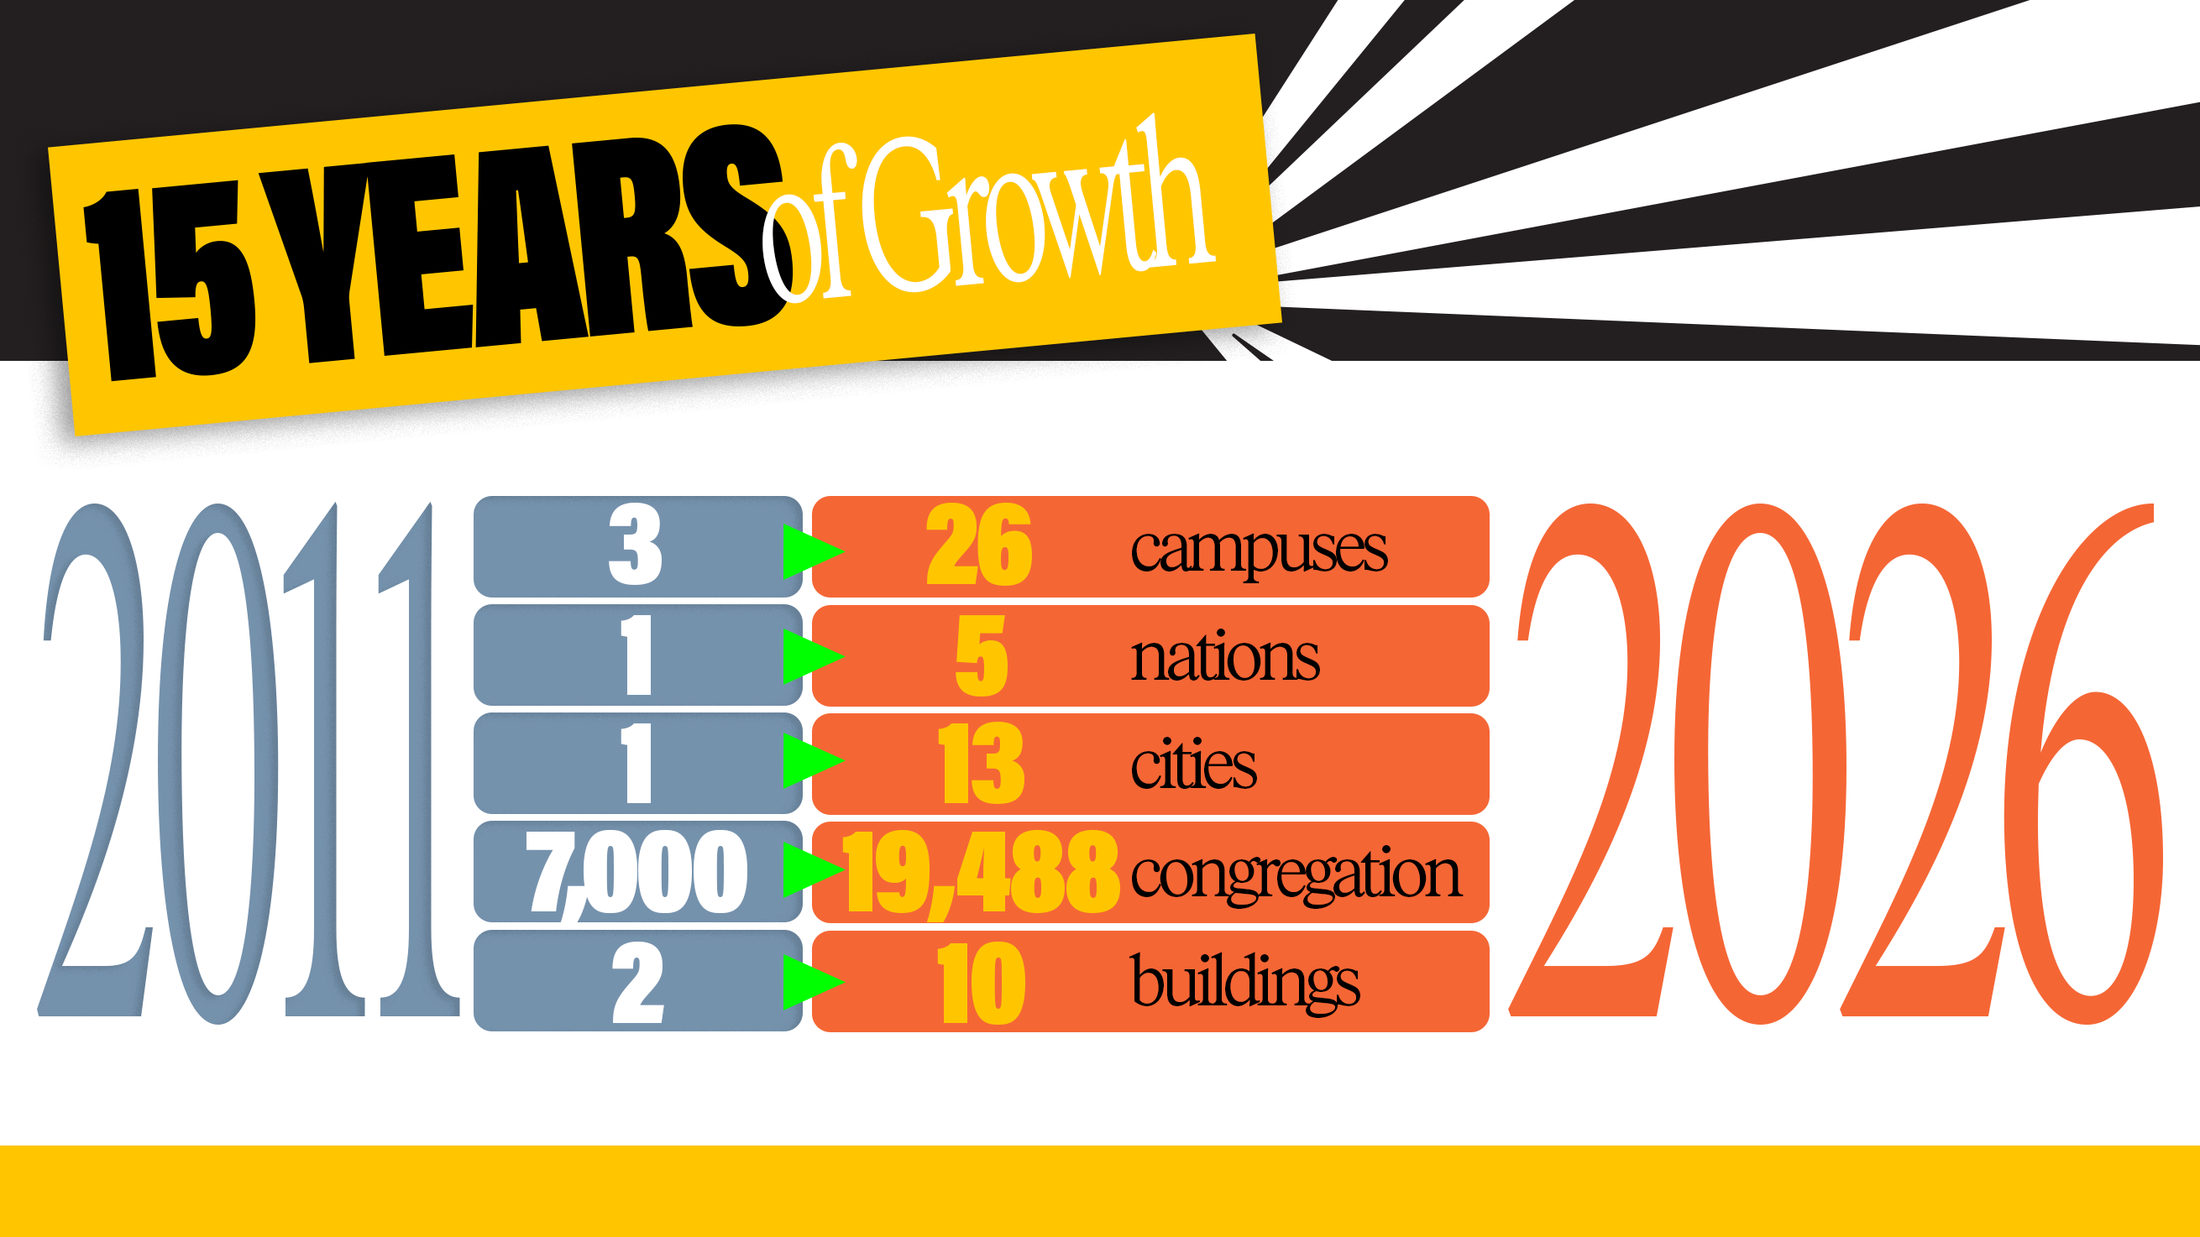
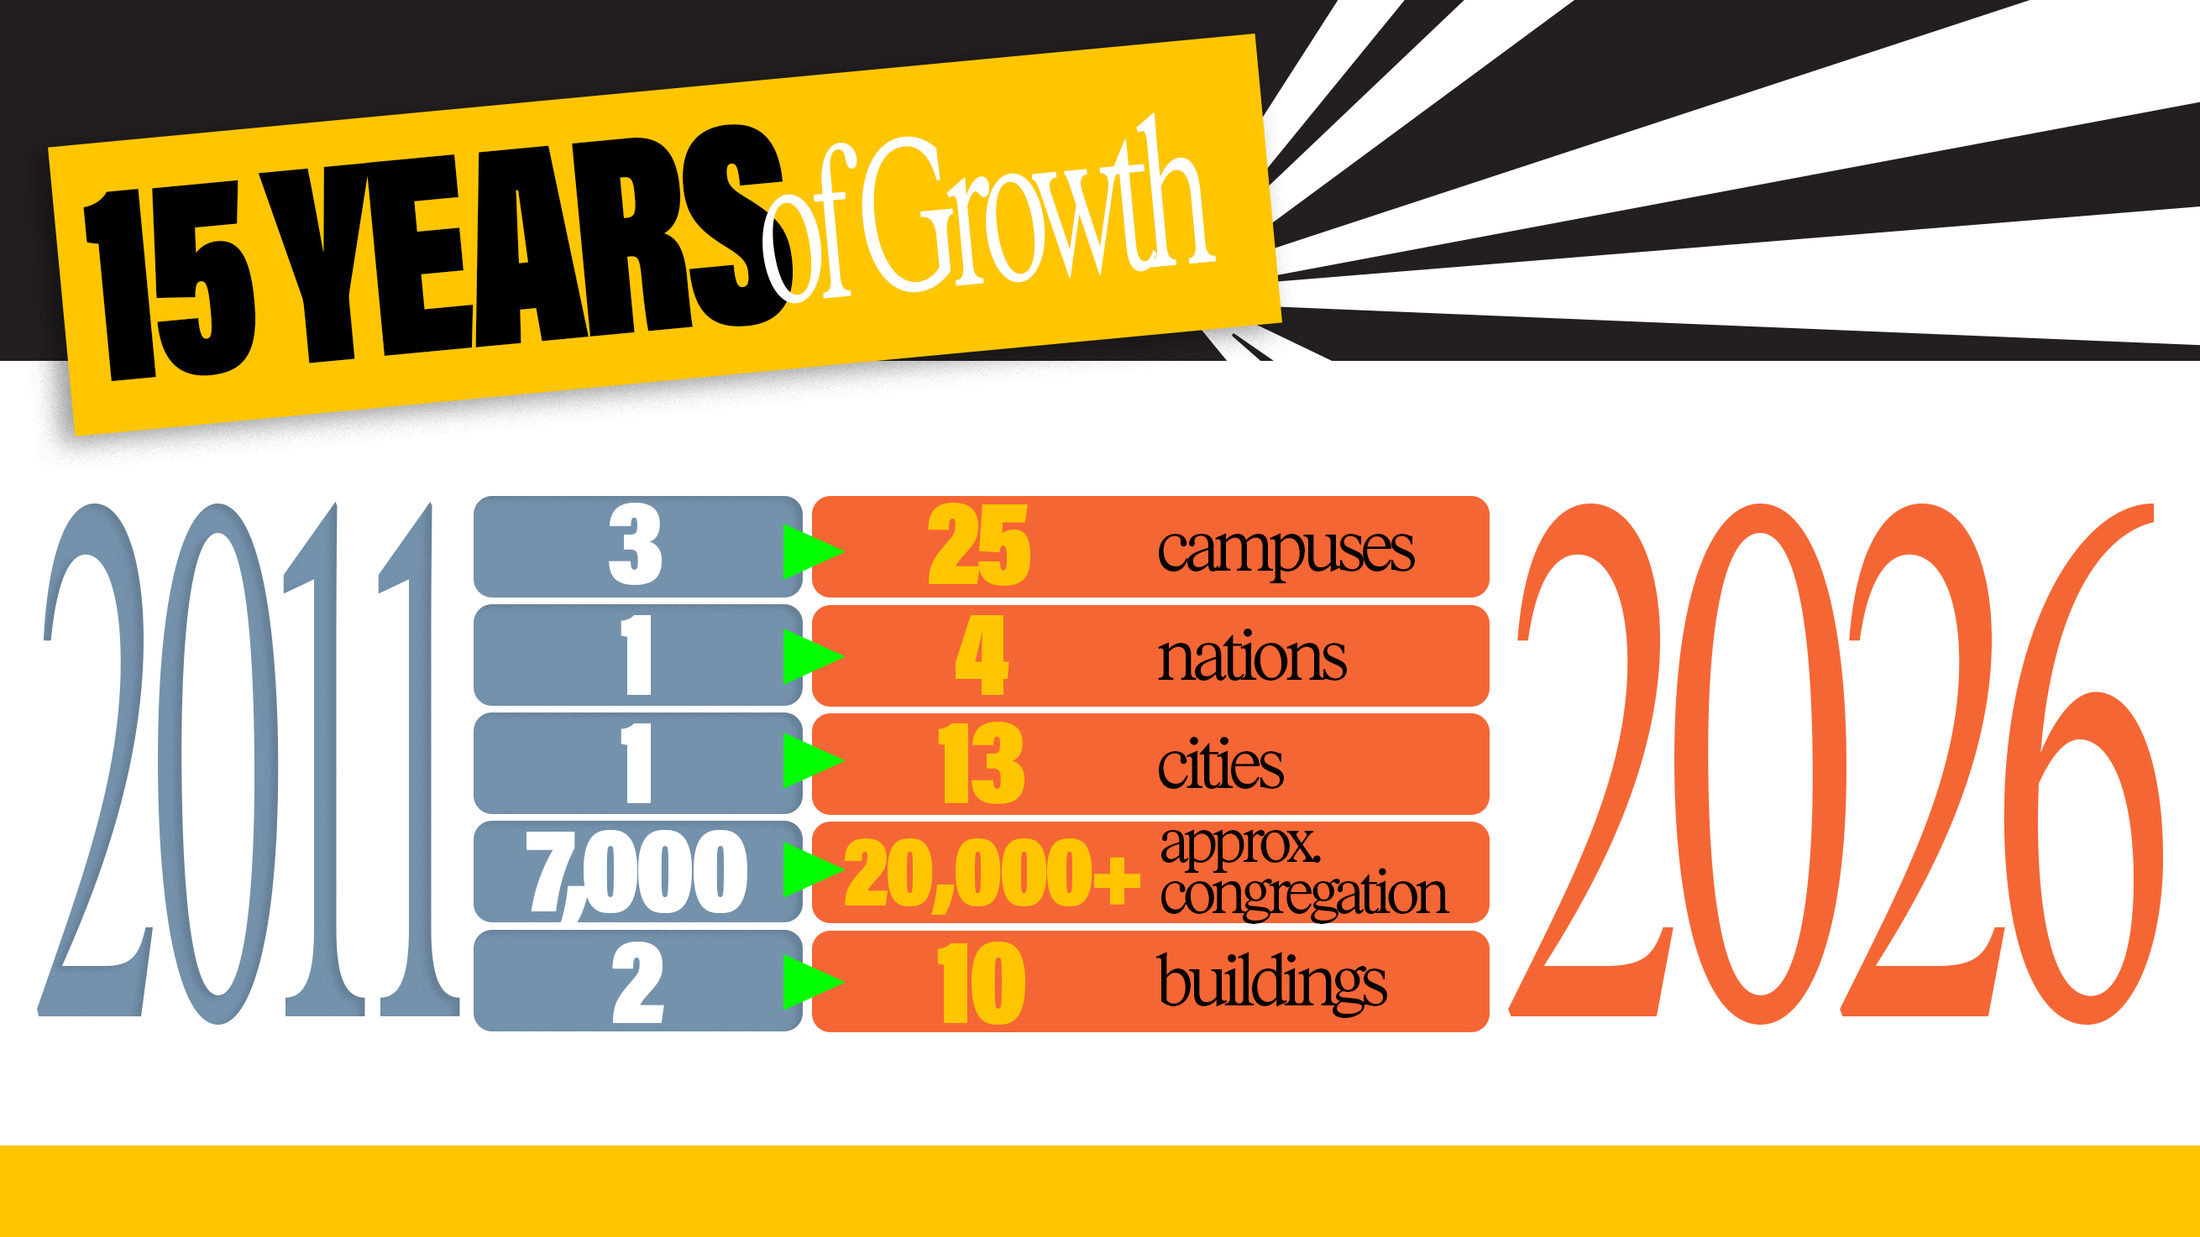
Correct the 15 Years infographic figures.
The graphic and its alt text now show 25 campuses, 4 nations, 13 cities, an approximate congregation of 20,000+, and 10 buildings.

diff --git a/src/App.tsx b/src/App.tsx
@@ -1590,7 +1590,7 @@ function FifteenYears() {
       <figure className="mt-12 md:mt-16 m-0">
         <img
           src="/media/infographics/15-years.jpg"
-          alt="15 years of growth: 3 → 26 campuses, 1 → 5 nations, 1 → 13 cities, 7,000 → 19,488 congregation, 2 → 10 buildings."
+          alt="15 years of growth: 3 → 25 campuses, 1 → 4 nations, 1 → 13 cities, 7,000 → 20,000+ approx. congregation, 2 → 10 buildings."
           loading="lazy"
           decoding="async"
           className="block w-full h-auto"
